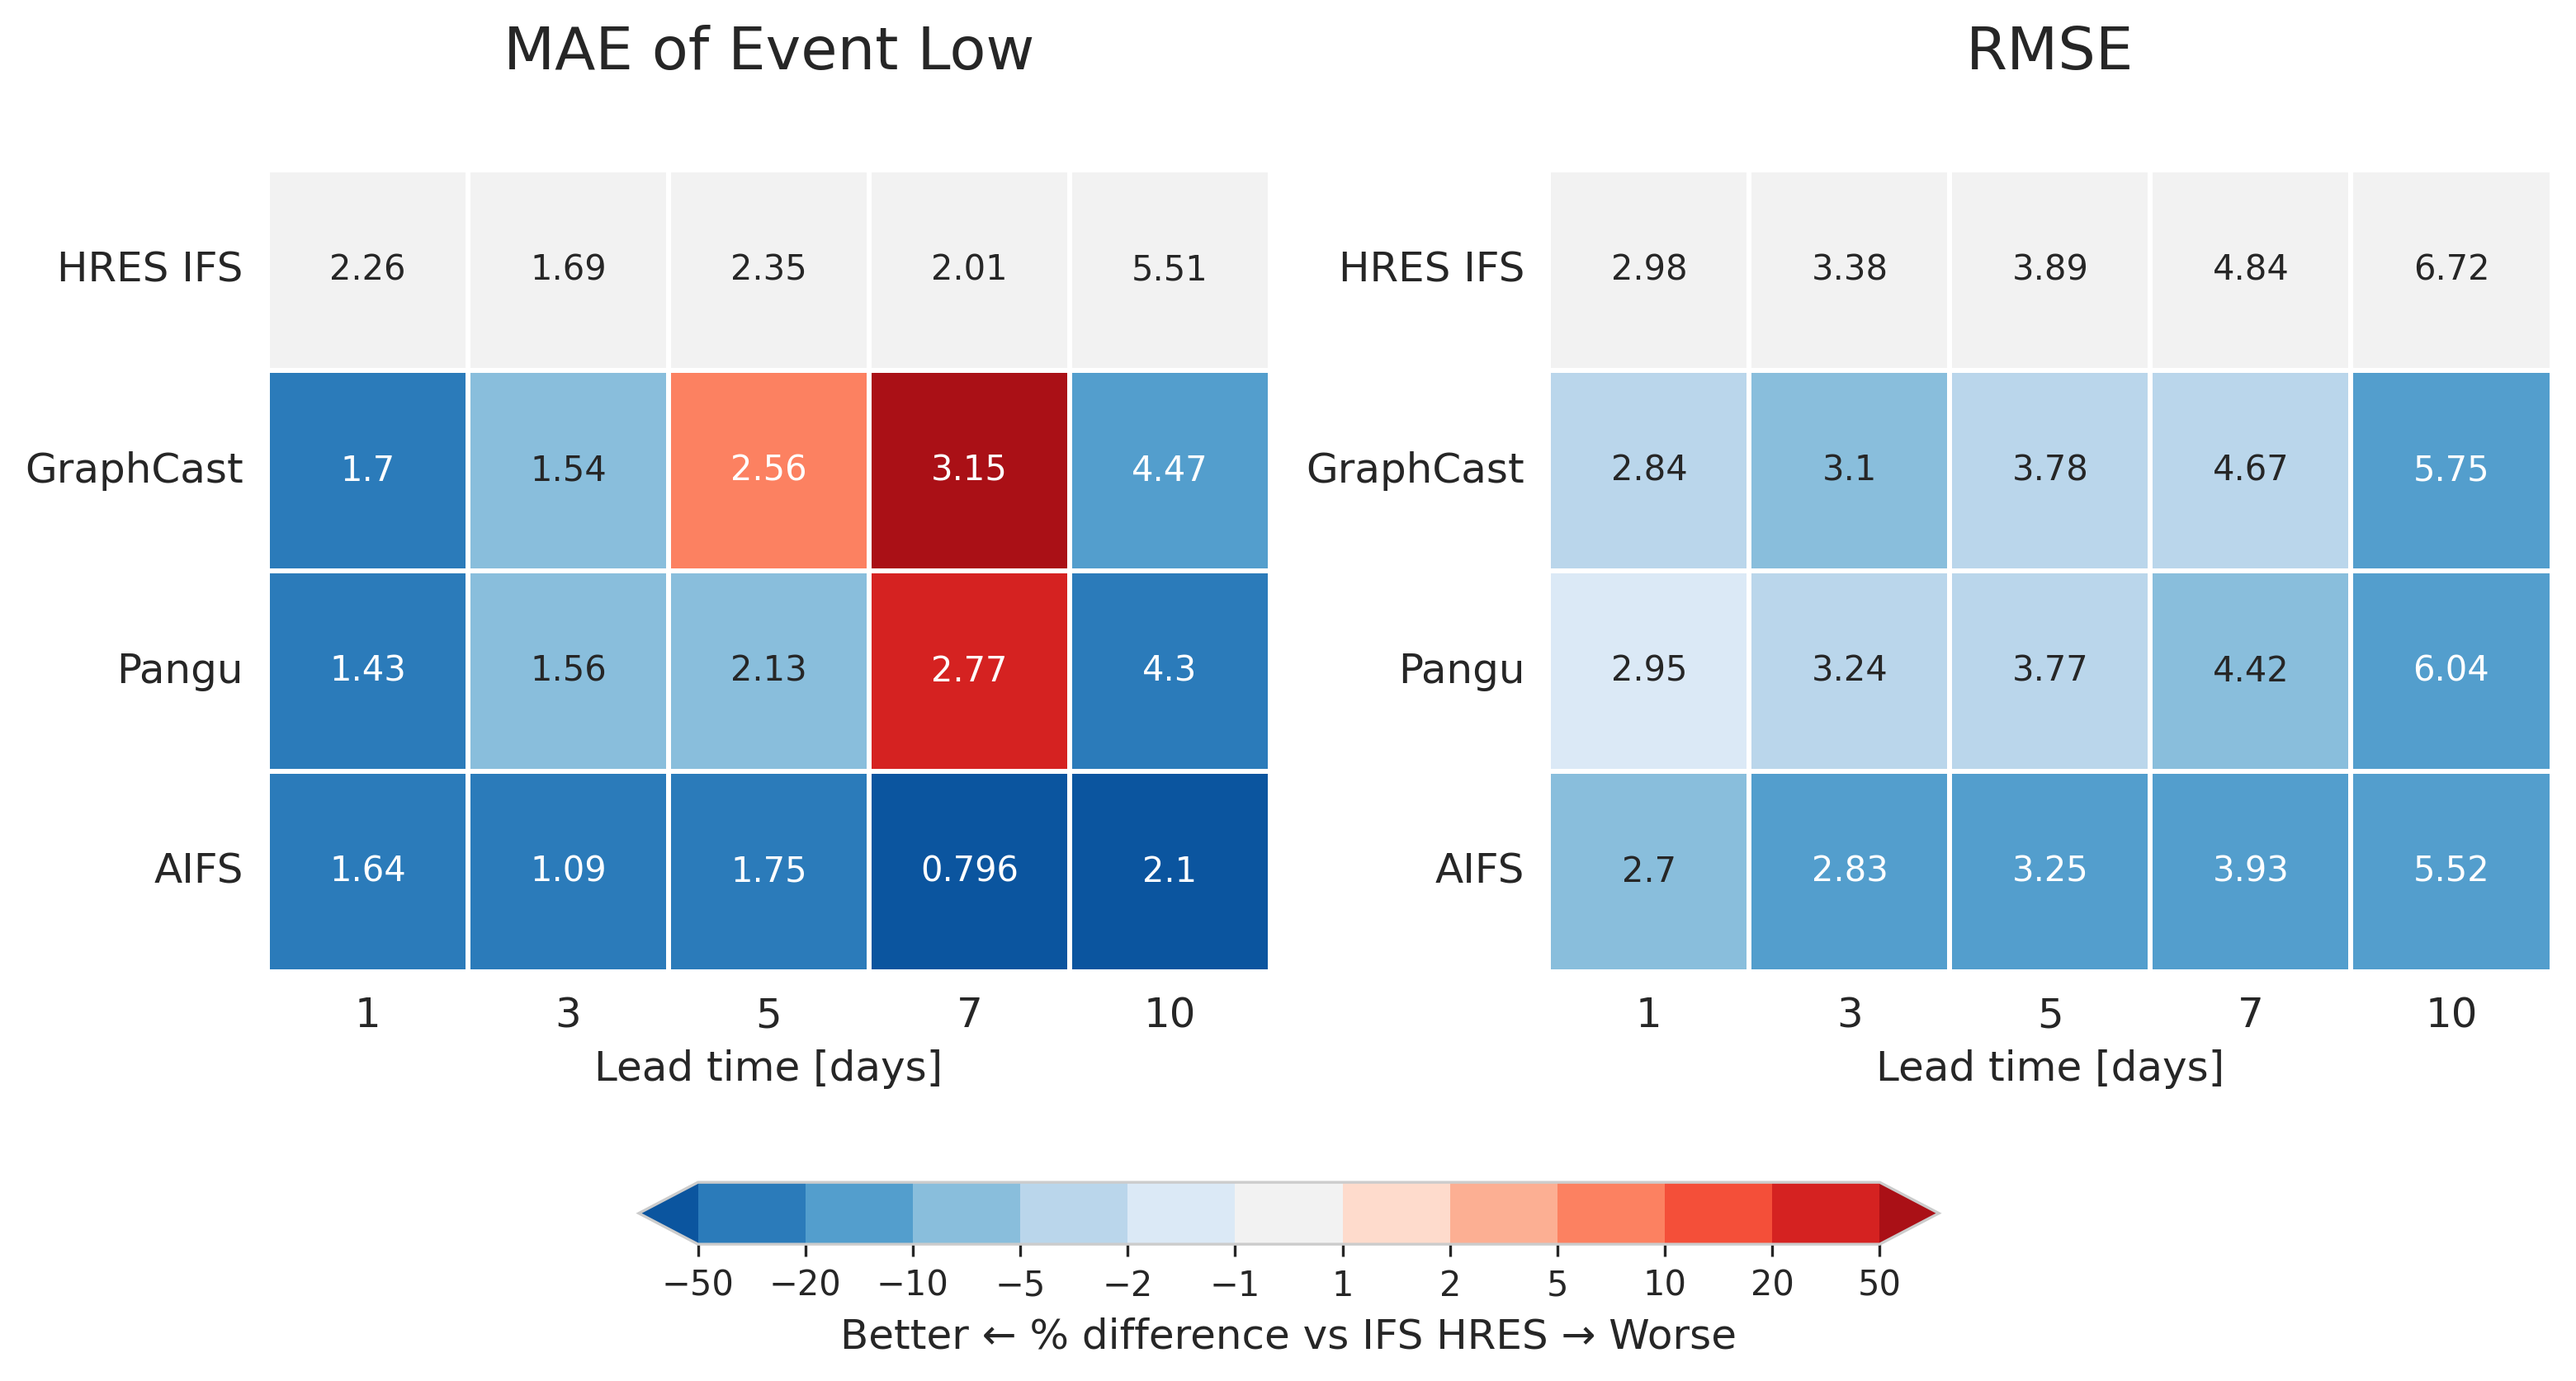
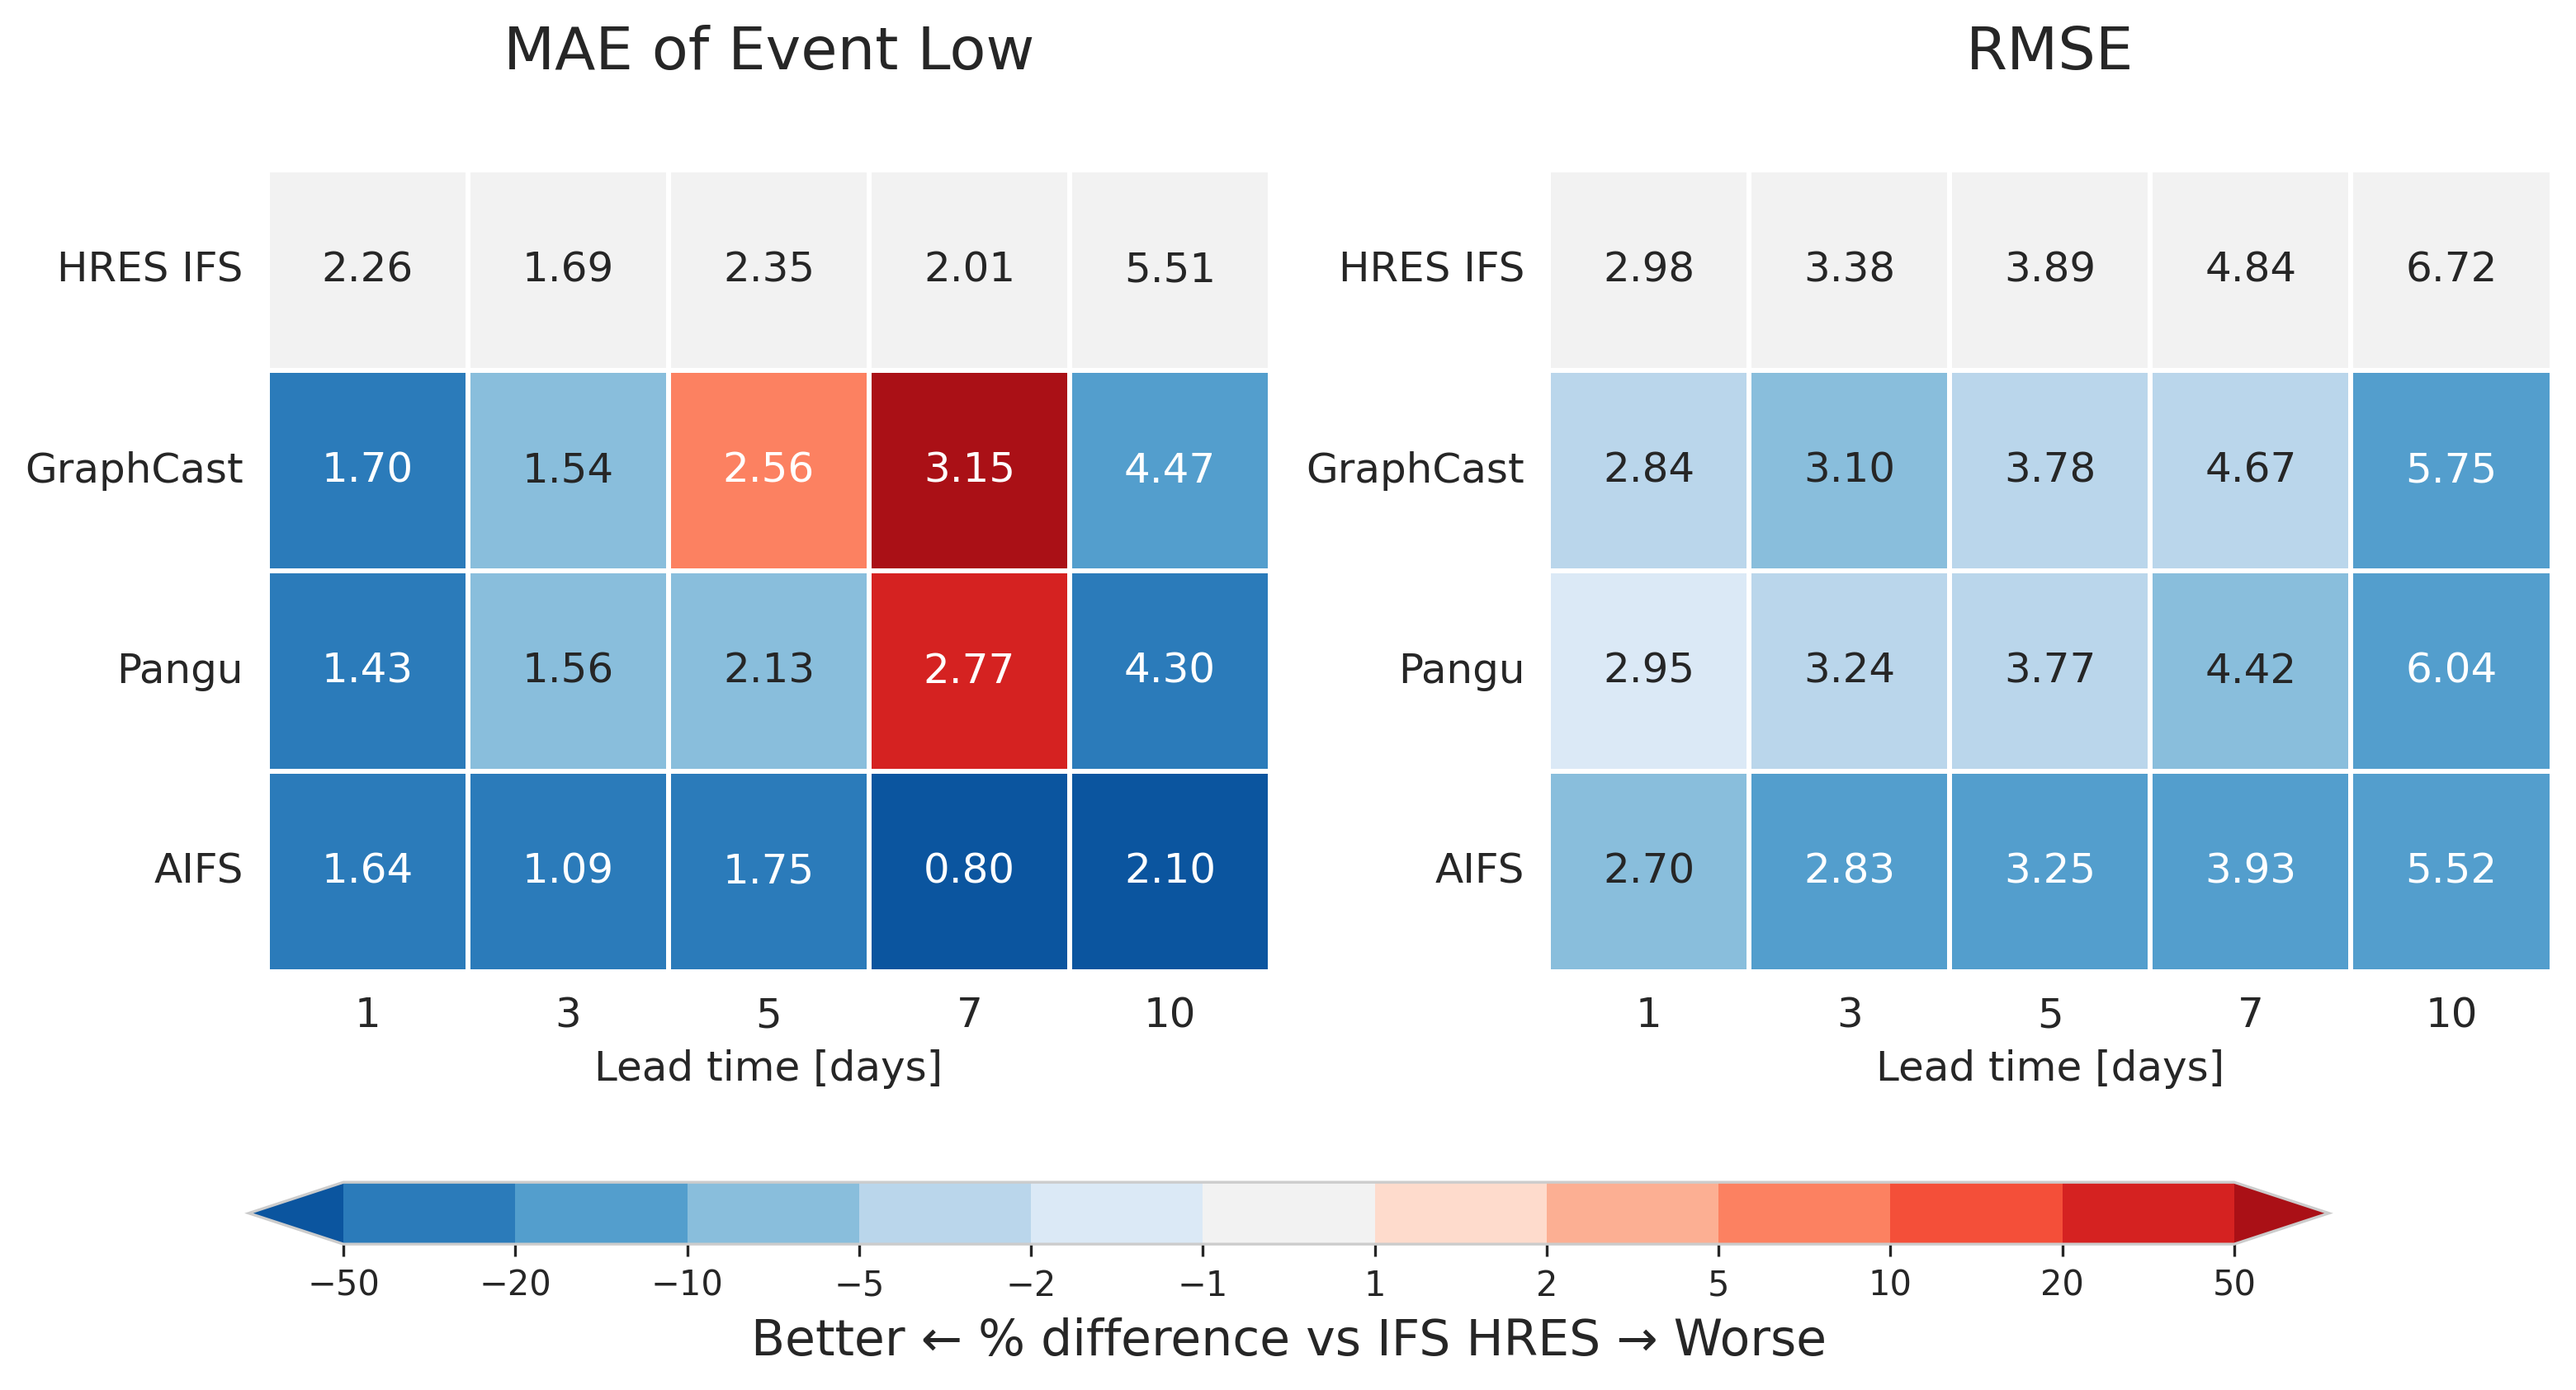
Updated fonts and colorbar width

diff --git a/src/plots/plotting_utils.py b/src/plots/plotting_utils.py
@@ -15,6 +15,7 @@ import matplotlib.colors as colors
 
 # setup all the imports
 import matplotlib.colors as mcolors
+import matplotlib.font_manager as fm
 import matplotlib.patches as patches
 import matplotlib.pyplot as plt
 import numpy as np
@@ -1545,14 +1546,13 @@ def plot_heatmap(
         label_fontsize = "xx-large"
         tick_fontsize = "xx-large"
         title_y = 1.05
+        annot_fontsize = 12
     else:
         title_fontsize = "xx-large"
         label_fontsize = "large"
         tick_fontsize = "large"
         title_y = 1.1
-
-    # Adjust annotation font size for subplots
-    annot_fontsize = 12 if is_subplot else None
+        annot_fontsize = "large"
 
     subplot_titles = settings["subplot_titles"]
     for i, my_title in enumerate(subplot_titles):
@@ -1563,7 +1563,7 @@ def plot_heatmap(
         ax = sns.heatmap(
             relative_error_array[metric],
             annot=error_array[metric],
-            fmt=".3g",
+            fmt=".2f",
             cmap=cmap,
             norm=norm,
             vmin=vmin,
@@ -1616,17 +1616,25 @@ def plot_heatmap(
         # Create the colorbar using the first subplot's collections
         cb = fig.colorbar(mappable=axs[0].collections[0], cax=cax, **cbar_kws)
         cb.ax.set_xticks(cb_levels)
-        cbar_fontsize = "xx-large" if is_subplot else "large"
+        # Scale up the label font size for the colorbar (1.2x larger)
+        base_size = plt.rcParams['font.size']
+        font_scalings = fm.font_scalings
+        label_size_numeric = base_size * font_scalings.get(label_fontsize, 1.0)
+        cbar_fontsize = label_size_numeric * 1.2
         cb.ax.set_xlabel(
             "Better ← % difference vs IFS HRES → Worse", fontsize=cbar_fontsize
         )
     elif show_colorbar:
-        # Original positioning for standalone figure
-        cax = fig.add_axes((0.25, -0.05, 0.5, 0.05))
-
+        # make the colorbar take up 90% of the width of the figure and center it on the bottom of the figure
+        cax = fig.add_axes((0, -0.05, 1, 0.05))
+        cax.set_position([0.1, -0.05, 0.8, 0.05])
         cb = fig.colorbar(mappable=ax.collections[0], cax=cax, **cbar_kws)
         cb.ax.set_xticks(cb_levels)
-        cbar_fontsize = "small" if is_subplot else "large"
+        # Scale up the label font size for the colorbar (1.2x larger)
+        base_size = plt.rcParams['font.size']
+        font_scalings = fm.font_scalings
+        label_size_numeric = base_size * font_scalings.get(label_fontsize, 1.0)
+        cbar_fontsize = label_size_numeric * 1.2
         cb.ax.set_xlabel(
             "Better ← % difference vs IFS HRES → Worse", fontsize=cbar_fontsize
         )

diff --git a/src/data/run_ar_cases.py b/src/data/run_ar_cases.py
@@ -36,10 +36,10 @@ if __name__ == "__main__":
         help="Run CIRA FOURv2 evaluation (default: False)",
     )
     parser.add_argument(
-        "--run_cira_gc",
+        "--run_cira_graphcast",
         action="store_true",
         default=False,
-        help="Run CIRA GC evaluation (default: False)",
+        help="Run CIRA Graphcast evaluation (default: False)",
     )
     parser.add_argument(
         "--run_cira_pangu",
@@ -124,21 +124,21 @@ if __name__ == "__main__":
         cira_fourv2_results.to_pickle(basepath + "saved_data/cira_fourv2_ar_results.pkl")
         print("CIRA FOURv2 evaluation complete. Results saved to pickle.")
 
-    if args.run_cira_gc:
-        print("running CIRA GC evaluation")
+    if args.run_cira_graphcast:
+        print("running CIRA Graphcast evaluation")
 
-        cira_gc_ar_gfs_forecast = atmospheric_river_forecast_setup.get_cira_forecast("GC", "GFS")
-        cira_gc_ar_ifs_forecast = atmospheric_river_forecast_setup.get_cira_forecast("GC", "IFS")
-        cira_gc_ar_evaluation_objects = atmospheric_river_evaluation_setup.get_ar_evaluation_objects(
-            [cira_gc_ar_gfs_forecast, cira_gc_ar_ifs_forecast]
+        cira_graphcast_ar_gfs_forecast = atmospheric_river_forecast_setup.get_cira_forecast("Graphcast", "GFS")
+        cira_graphcast_ar_ifs_forecast = atmospheric_river_forecast_setup.get_cira_forecast("Graphcast", "IFS")
+        cira_graphcast_ar_evaluation_objects = atmospheric_river_evaluation_setup.get_ar_evaluation_objects(
+            [cira_graphcast_ar_gfs_forecast, cira_graphcast_ar_ifs_forecast]
         )
 
-        ewb_cira_gc = evaluate.ExtremeWeatherBench(ewb_cases, cira_gc_ar_evaluation_objects)
+        ewb_cira_graphcast = evaluate.ExtremeWeatherBench(ewb_cases, cira_graphcast_ar_evaluation_objects)
 
-        print("running CIRA GC")
-        cira_gc_results = ewb_cira_gc.run(parallel_config=parallel_config)
-        cira_gc_results.to_pickle(basepath + "saved_data/cira_gc_ar_results.pkl")
-        print("CIRA GC evaluation complete. Results saved to pickle.")
+        print("running CIRA Graphcast")
+        cira_graphcast_results = ewb_cira_graphcast.run(parallel_config=parallel_config)
+        cira_graphcast_results.to_pickle(basepath + "saved_data/cira_graphcast_ar_results.pkl")
+        print("CIRA Graphcast evaluation complete. Results saved to pickle.")
 
     if args.run_cira_pangu:
         print("running CIRA PANGU evaluation")
